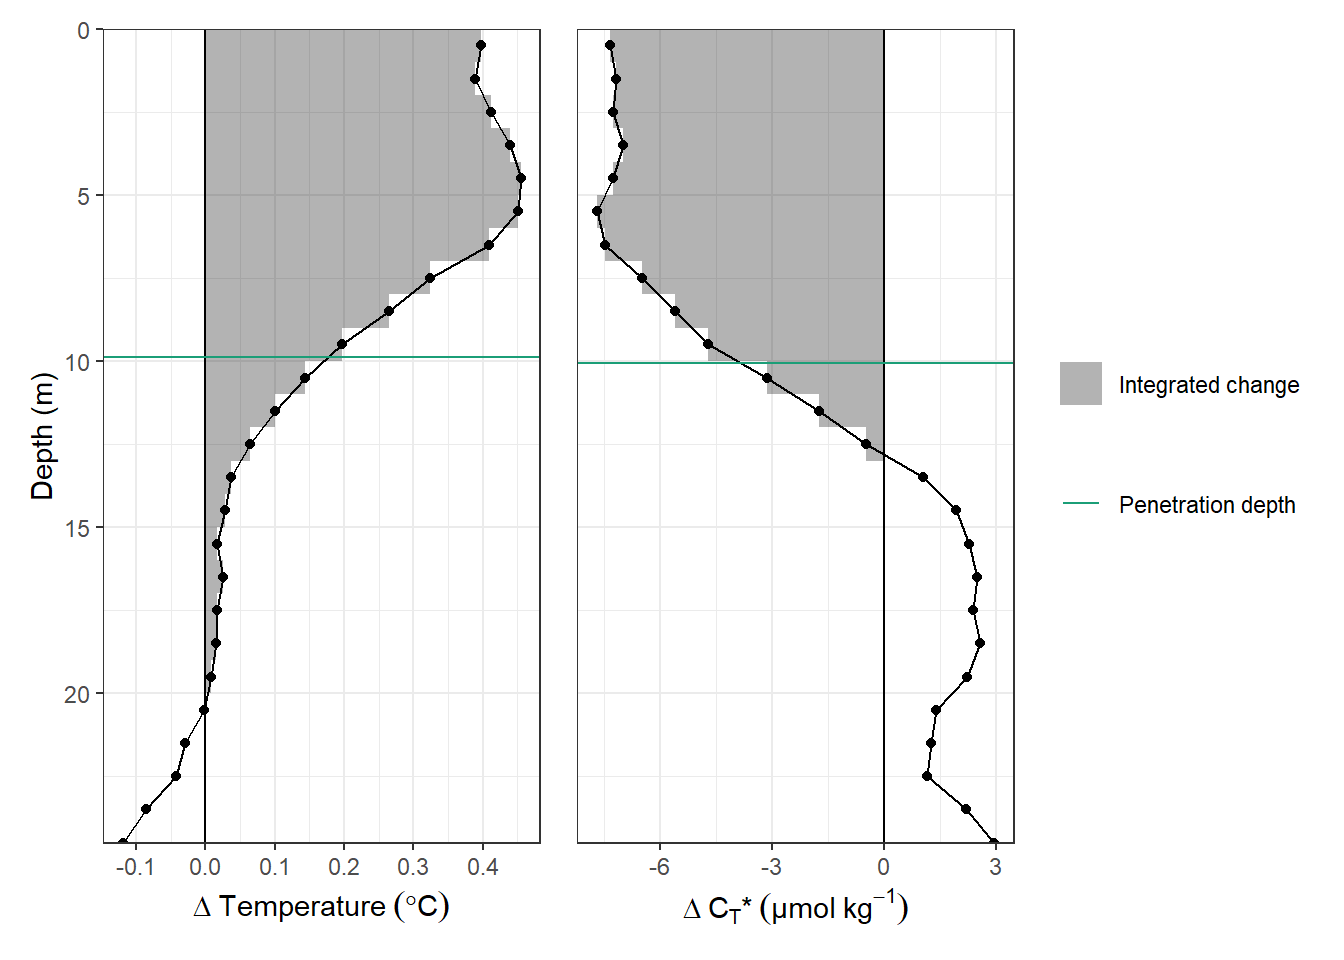
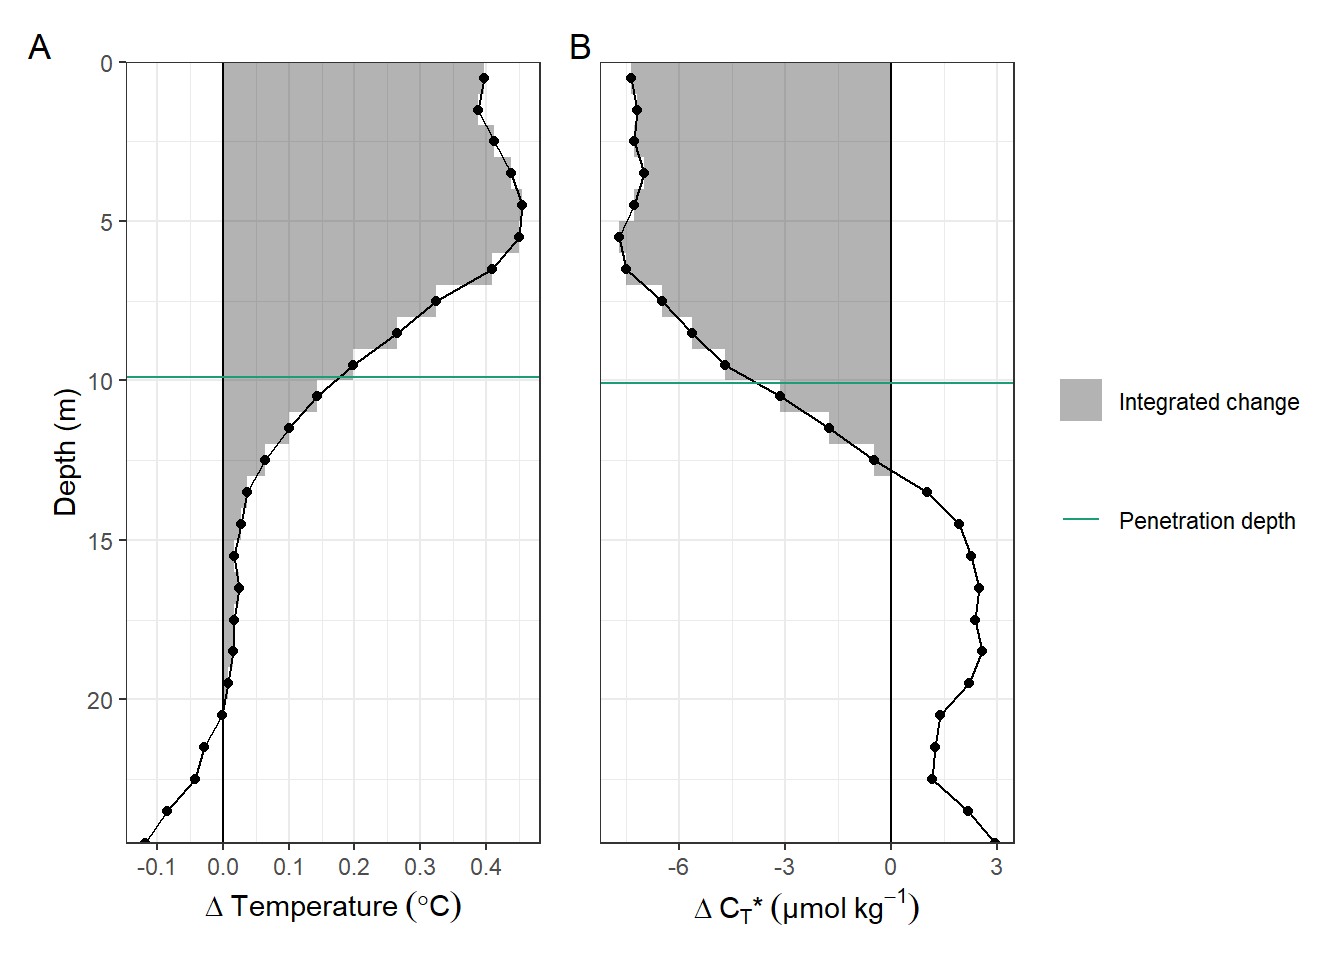
Build site.

diff --git a/docs/NCP_reconstruction.html b/docs/NCP_reconstruction.html
@@ -436,7 +436,7 @@ div.tocify {
 
 <h1 class="title toc-ignore">NCP reconstruction</h1>
 <h4 class="author">Jens Daniel Müller</h4>
-<h4 class="date">02 November, 2020</h4>
+<h4 class="date">04 November, 2020</h4>
 
 </div>
 
@@ -461,7 +461,7 @@ div.tocify {
 <div class="tab-content">
 <div id="summary" class="tab-pane fade in active">
 <p>
-<strong>Last updated:</strong> 2020-11-02
+<strong>Last updated:</strong> 2020-11-04
 </p>
 <p>
 <strong>Checks:</strong> <span class="glyphicon glyphicon-ok text-success" aria-hidden="true"></span> 7 <span class="glyphicon glyphicon-exclamation-sign text-danger" aria-hidden="true"></span> 0
@@ -552,16 +552,16 @@ This reproducible <a href="http://rmarkdown.rstudio.com">R Markdown</a> analysis
 <div class="panel panel-default">
 <div class="panel-heading">
 <p class="panel-title">
-<a data-toggle="collapse" data-parent="#workflowr-checks" href="#strongRepositoryversionstrongahrefhttpsgithubcomjensdanielmuellerBloomSailtree7e5a700c87b0568c3f77fcc74d9e70a711d358a8targetblank7e5a700a"> <span class="glyphicon glyphicon-ok text-success" aria-hidden="true"></span> <strong>Repository version:</strong> <a href="https://github.com/jens-daniel-mueller/BloomSail/tree/7e5a700c87b0568c3f77fcc74d9e70a711d358a8" target="_blank">7e5a700</a> </a>
+<a data-toggle="collapse" data-parent="#workflowr-checks" href="#strongRepositoryversionstrongahrefhttpsgithubcomjensdanielmuellerBloomSailtree2c4509a397f726dad321b73ed6ed50a6206a9853targetblank2c4509aa"> <span class="glyphicon glyphicon-ok text-success" aria-hidden="true"></span> <strong>Repository version:</strong> <a href="https://github.com/jens-daniel-mueller/BloomSail/tree/2c4509a397f726dad321b73ed6ed50a6206a9853" target="_blank">2c4509a</a> </a>
 </p>
 </div>
[2 lines of base64/hex data omitted]
 <div class="panel-body">
 <p>
 Great! You are using Git for version control. Tracking code development and connecting the code version to the results is critical for reproducibility.
 </p>
 <p>
-The results in this page were generated with repository version <a href="https://github.com/jens-daniel-mueller/BloomSail/tree/7e5a700c87b0568c3f77fcc74d9e70a711d358a8" target="_blank">7e5a700</a>. See the <em>Past versions</em> tab to see a history of the changes made to the R Markdown and HTML files.
+The results in this page were generated with repository version <a href="https://github.com/jens-daniel-mueller/BloomSail/tree/2c4509a397f726dad321b73ed6ed50a6206a9853" target="_blank">2c4509a</a>. See the <em>Past versions</em> tab to see a history of the changes made to the R Markdown and HTML files.
 </p>
 <p>
 Note that you need to be careful to ensure that all relevant files for the analysis have been committed to Git prior to generating the results (you can use <code>wflow_publish</code> or <code>wflow_git_commit</code>). workflowr only checks the R Markdown file, but you know if there are other scripts or data files that it depends on. Below is the status of the Git repository when the results were generated:
@@ -614,6 +614,40 @@ Message
 </tr>
 </thead>
 <tbody>
+<tr>
+<td>
+Rmd
+</td>
+<td>
+<a href="https://github.com/jens-daniel-mueller/BloomSail/blob/2c4509a397f726dad321b73ed6ed50a6206a9853/analysis/NCP_reconstruction.Rmd" target="_blank">2c4509a</a>
+</td>
+<td>
+jens-daniel-mueller
+</td>
+<td>
+2020-11-04
+</td>
+<td>
+added panel annotation
+</td>
+</tr>
+<tr>
+<td>
+html
+</td>
+<td>
+<a href="https://rawcdn.githack.com/jens-daniel-mueller/BloomSail/7e29c30dea0e5d6ffa9de5847c5eedaa887e157e/docs/NCP_reconstruction.html" target="_blank">7e29c30</a>
+</td>
+<td>
+jens-daniel-mueller
+</td>
+<td>
+2020-11-02
+</td>
+<td>
+Build site.
+</td>
+</tr>
 <tr>
 <td>
 Rmd
@@ -1696,7 +1730,8 @@ p_tem &lt;-
   theme(legend.title = element_blank())
 
 p_tem + p_nCT +
-  plot_layout(guides = &#39;collect&#39;)</code></pre>
+  plot_layout(guides = &#39;collect&#39;)+
+  plot_annotation(tag_levels = &#39;A&#39;)</code></pre>
 <p><img src="figure/NCP_reconstruction.Rmd/TPD_CPD_cumulative_tm_profiles_example-1.png" width="672" style="display: block; margin: auto;" /></p>
 <pre class="r"><code>ggsave(
   here::here(
@@ -2848,7 +2883,8 @@ p_NCP &lt;- NCP_flux_int %&gt;%
     axis.text.x.top = element_blank()
   )
 
-p_nCT / p_hov_dep / p_NCP</code></pre>
+p_nCT / p_hov_dep / p_NCP +
+  plot_annotation(tag_levels = &#39;A&#39;)</code></pre>
 <p><img src="figure/NCP_reconstruction.Rmd/NCP_time_series-1.png" width="672" style="display: block; margin: auto;" /></p>
 <pre class="r"><code>ggsave(
   here::here(
